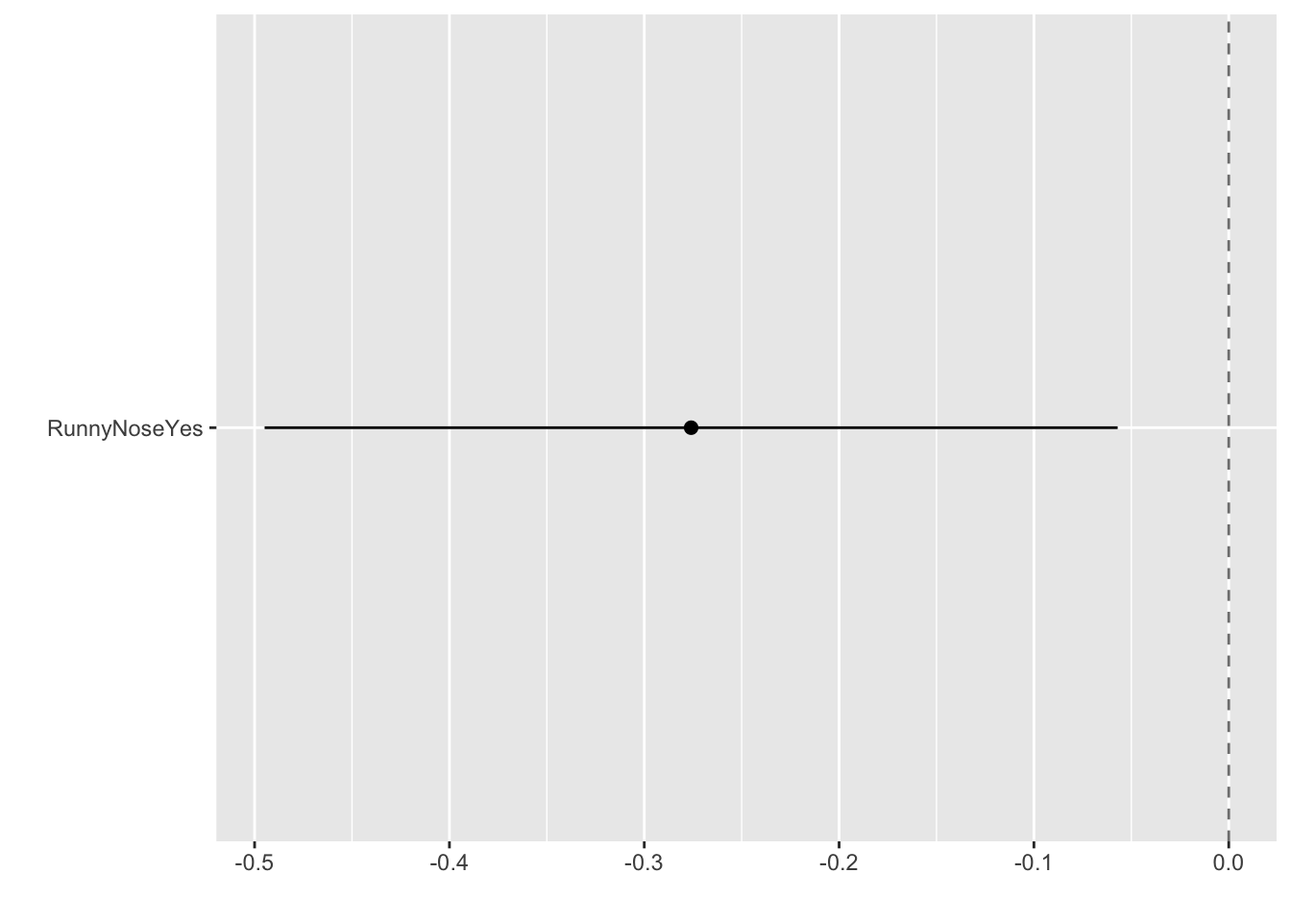
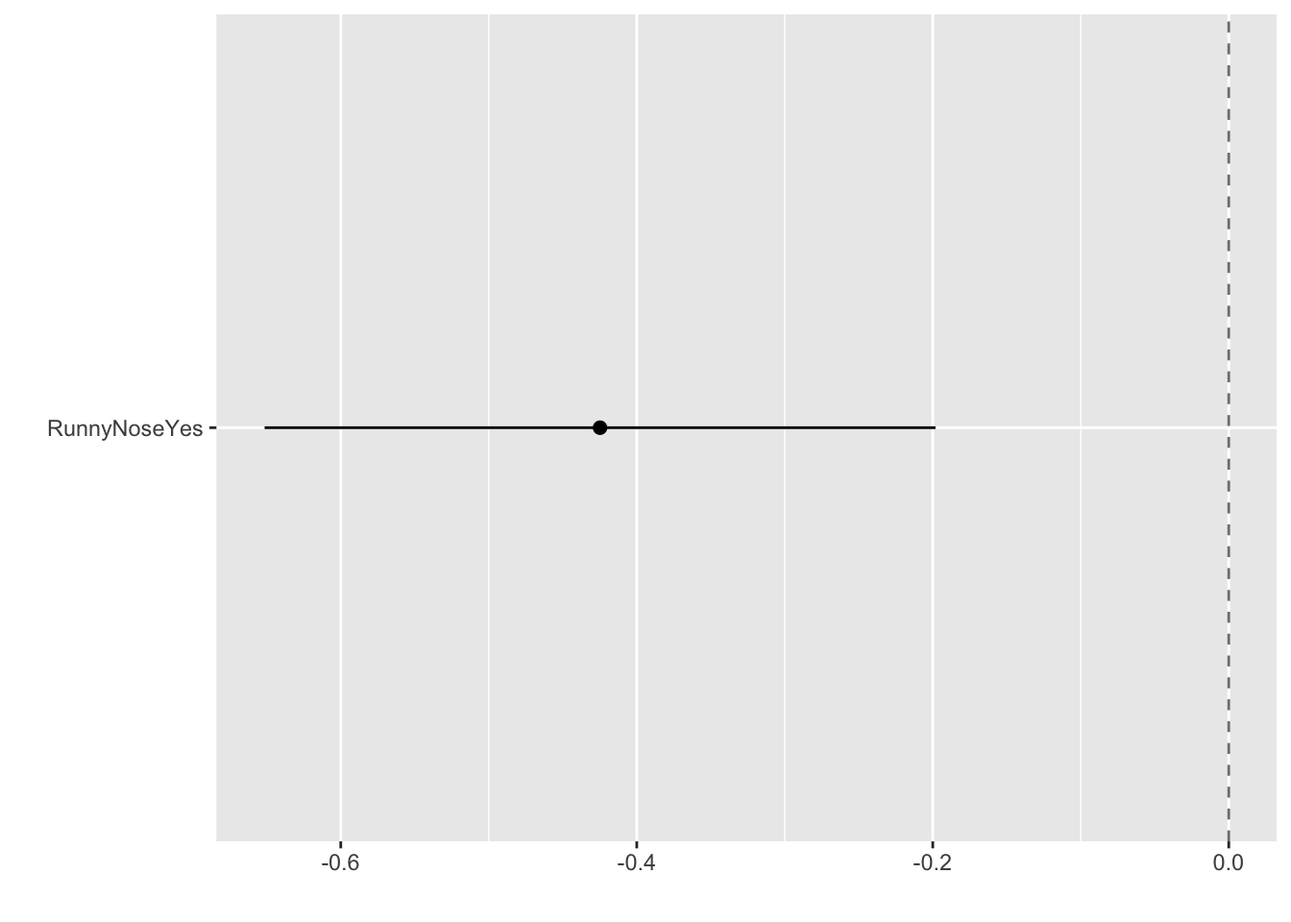
updated yml

diff --git a/docs/fluanalysis/code/fitting.html b/docs/fluanalysis/code/fitting.html
@@ -251,7 +251,7 @@ code span.wa { color: #60a0b0; font-weight: bold; font-style: italic; } /* Warni
 ✖ dplyr::filter()  masks stats::filter()
 ✖ dplyr::lag()     masks stats::lag()
 ✖ recipes::step()  masks stats::step()
-• Use suppressPackageStartupMessages() to eliminate package startup messages</code></pre>
+• Use tidymodels_prefer() to resolve common conflicts.</code></pre>
 </div>
 <div class="sourceCode cell-code" id="cb5"><pre class="sourceCode r code-with-copy"><code class="sourceCode r"><span id="cb5-1"><a href="#cb5-1" aria-hidden="true" tabindex="-1"></a><span class="fu">library</span>(tidyverse)</span></code><button title="Copy to Clipboard" class="code-copy-button"><i class="bi"></i></button></pre></div>
 <div class="cell-output cell-output-stderr">
@@ -345,24 +345,24 @@ code span.wa { color: #60a0b0; font-weight: bold; font-style: italic; } /* Warni
 <span id="cb17-3"><a href="#cb17-3" aria-hidden="true" tabindex="-1"></a><span class="fu">tidy</span>(bodytemp_fit)</span></code><button title="Copy to Clipboard" class="code-copy-button"><i class="bi"></i></button></pre></div>
 <div class="cell-output cell-output-stdout">
 <pre><code># A tibble: 38 × 5
-   term                 estimate std.error statistic   p.value
-   &lt;chr&gt;                   &lt;dbl&gt;     &lt;dbl&gt;     &lt;dbl&gt;     &lt;dbl&gt;
- 1 (Intercept)           98.0        0.337   291.    0        
- 2 SwollenLymphNodesYes  -0.127      0.107    -1.18  0.237    
- 3 ChestCongestionYes     0.0354     0.112     0.317 0.751    
- 4 ChillsSweatsYes        0.183      0.145     1.26  0.208    
- 5 NasalCongestionYes    -0.207      0.132    -1.57  0.117    
- 6 CoughYNYes             0.289      0.300     0.964 0.336    
- 7 SneezeYes             -0.353      0.114    -3.09  0.00208  
- 8 FatigueYes             0.341      0.183     1.86  0.0634   
- 9 SubjectiveFeverYes     0.482      0.118     4.09  0.0000502
-10 HeadacheYes           -0.0679     0.141    -0.480 0.631    
+   term                 estimate std.error statistic p.value
+   &lt;chr&gt;                   &lt;dbl&gt;     &lt;dbl&gt;     &lt;dbl&gt;   &lt;dbl&gt;
+ 1 (Intercept)           98.0        0.369   266.    0      
+ 2 SwollenLymphNodesYes  -0.202      0.108    -1.86  0.0635 
+ 3 ChestCongestionYes     0.0792     0.115     0.690 0.491  
+ 4 ChillsSweatsYes        0.284      0.155     1.84  0.0662 
+ 5 NasalCongestionYes    -0.255      0.134    -1.91  0.0566 
+ 6 CoughYNYes             0.175      0.289     0.607 0.544  
+ 7 SneezeYes             -0.325      0.119    -2.74  0.00629
+ 8 FatigueYes             0.312      0.183     1.70  0.0895 
+ 9 SubjectiveFeverYes     0.333      0.125     2.67  0.00785
+10 HeadacheYes            0.0482     0.147     0.327 0.744  
 # … with 28 more rows</code></pre>
 </div>
 </div>
 </section>
-<section id="create-a-dotwhisker-plot-to-look-at-the-regression" class="level3">
-<h3 class="anchored" data-anchor-id="create-a-dotwhisker-plot-to-look-at-the-regression">Create a dotwhisker plot to look at the regression</h3>
+<section id="create-a-dotwhisker-plot-to-look-at-regression-coefficients" class="level3">
+<h3 class="anchored" data-anchor-id="create-a-dotwhisker-plot-to-look-at-regression-coefficients">Create a dotwhisker plot to look at regression coefficients</h3>
 <div class="cell">
 <div class="sourceCode cell-code" id="cb19"><pre class="sourceCode r code-with-copy"><code class="sourceCode r"><span id="cb19-1"><a href="#cb19-1" aria-hidden="true" tabindex="-1"></a><span class="fu">tidy</span>(bodytemp_fit) <span class="sc">%&gt;%</span> </span>
 <span id="cb19-2"><a href="#cb19-2" aria-hidden="true" tabindex="-1"></a>  <span class="fu">dwplot</span>(<span class="at">dot_args =</span> <span class="fu">list</span>(<span class="at">size =</span> <span class="dv">2</span>, <span class="at">color =</span> <span class="st">"black"</span>),</span>
@@ -374,8 +374,8 @@ code span.wa { color: #60a0b0; font-weight: bold; font-style: italic; } /* Warni
 </div>
 </div>
 </section>
-<section id="use-model-on-testing-data-to-predict-body-temp-outcome" class="level3">
-<h3 class="anchored" data-anchor-id="use-model-on-testing-data-to-predict-body-temp-outcome">Use model on testing data to predict body temp outcome</h3>
+<section id="use-model-on-test-data-to-predict-body-temp-outcome" class="level3">
+<h3 class="anchored" data-anchor-id="use-model-on-test-data-to-predict-body-temp-outcome">Use model on test data to predict body temp outcome</h3>
 <div class="cell">
 <div class="sourceCode cell-code" id="cb20"><pre class="sourceCode r code-with-copy"><code class="sourceCode r"><span id="cb20-1"><a href="#cb20-1" aria-hidden="true" tabindex="-1"></a>bodytemp_aug_test <span class="ot">&lt;-</span> <span class="fu">augment</span>(bodytemp_fit, test_data)</span></code><button title="Copy to Clipboard" class="code-copy-button"><i class="bi"></i></button></pre></div>
 <div class="cell-output cell-output-stderr">
@@ -387,16 +387,16 @@ code span.wa { color: #60a0b0; font-weight: bold; font-style: italic; } /* Warni
 <pre><code># A tibble: 183 × 2
    BodyTemp .pred
       &lt;dbl&gt; &lt;dbl&gt;
- 1     98.5  98.9
- 2     98.2  99.1
- 3     99    98.8
- 4    102.   99.1
- 5     98.1  98.4
- 6     98.2  99.1
- 7    100.   99.1
- 8    100.   98.9
- 9     98.1  99.8
-10     98.5  99.2
+ 1    100.   99.4
+ 2     98.5  98.6
+ 3     99.2  98.8
+ 4     99.3  99.3
+ 5    101.   99.0
+ 6     98.7  98.2
+ 7     98.8  99.7
+ 8     98.7  98.8
+ 9     98    98.5
+10    101.   99.2
 # … with 173 more rows</code></pre>
 </div>
 </div>
@@ -410,7 +410,7 @@ code span.wa { color: #60a0b0; font-weight: bold; font-style: italic; } /* Warni
 <pre><code># A tibble: 1 × 3
   .metric .estimator .estimate
   &lt;chr&gt;   &lt;chr&gt;          &lt;dbl&gt;
-1 rmse    standard        1.21</code></pre>
+1 rmse    standard        1.12</code></pre>
 </div>
 </div>
 <p>I think this means that this model is estimating body temp incorrectly by this amount (in either direction)</p>
@@ -426,8 +426,8 @@ code span.wa { color: #60a0b0; font-weight: bold; font-style: italic; } /* Warni
 </div>
 <p>Here, we have set the outcome of interest to be body temperature, and predictor of interest to be runny nose.</p>
 </section>
-<section id="combine-model-and-recipe" class="level3">
-<h3 class="anchored" data-anchor-id="combine-model-and-recipe">Combine model and recipe</h3>
+<section id="combine-model-and-recipe-to-create-workflow" class="level3">
+<h3 class="anchored" data-anchor-id="combine-model-and-recipe-to-create-workflow">Combine model and recipe to create workflow</h3>
 <div class="cell">
 <div class="sourceCode cell-code" id="cb27"><pre class="sourceCode r code-with-copy"><code class="sourceCode r"><span id="cb27-1"><a href="#cb27-1" aria-hidden="true" tabindex="-1"></a>bodytemp_lm_workflow2 <span class="ot">&lt;-</span> <span class="fu">workflow</span>() <span class="sc">%&gt;%</span> </span>
 <span id="cb27-2"><a href="#cb27-2" aria-hidden="true" tabindex="-1"></a>  <span class="fu">add_model</span>(lm_mod) <span class="sc">%&gt;%</span> </span>
@@ -442,10 +442,10 @@ code span.wa { color: #60a0b0; font-weight: bold; font-style: italic; } /* Warni
 <span id="cb28-3"><a href="#cb28-3" aria-hidden="true" tabindex="-1"></a><span class="fu">tidy</span>(bodytemp_fit2)</span></code><button title="Copy to Clipboard" class="code-copy-button"><i class="bi"></i></button></pre></div>
 <div class="cell-output cell-output-stdout">
 <pre><code># A tibble: 2 × 5
-  term         estimate std.error statistic p.value
-  &lt;chr&gt;           &lt;dbl&gt;     &lt;dbl&gt;     &lt;dbl&gt;   &lt;dbl&gt;
-1 (Intercept)    99.1      0.0946   1048.    0     
-2 RunnyNoseYes   -0.276    0.112      -2.47  0.0138</code></pre>
+  term         estimate std.error statistic  p.value
+  &lt;chr&gt;           &lt;dbl&gt;     &lt;dbl&gt;     &lt;dbl&gt;    &lt;dbl&gt;
+1 (Intercept)    99.3      0.0988   1005.   0       
+2 RunnyNoseYes   -0.425    0.116      -3.67 0.000263</code></pre>
 </div>
 </div>
 <p>Now we have trained the model using the training data set.</p>
@@ -473,16 +473,16 @@ code span.wa { color: #60a0b0; font-weight: bold; font-style: italic; } /* Warni
 <pre><code># A tibble: 183 × 2
    BodyTemp .pred
       &lt;dbl&gt; &lt;dbl&gt;
- 1     98.5  98.9
- 2     98.2  99.1
- 3     99    98.9
- 4    102.   98.9
- 5     98.1  98.9
- 6     98.2  98.9
- 7    100.   98.9
- 8    100.   98.9
- 9     98.1  99.1
-10     98.5  98.9
+ 1    100.   99.3
+ 2     98.5  98.8
+ 3     99.2  98.8
+ 4     99.3  99.3
+ 5    101.   99.3
+ 6     98.7  98.8
+ 7     98.8  99.3
+ 8     98.7  98.8
+ 9     98    98.8
+10    101.   98.8
 # … with 173 more rows</code></pre>
 </div>
 </div>
@@ -496,10 +496,204 @@ code span.wa { color: #60a0b0; font-weight: bold; font-style: italic; } /* Warni
 <pre><code># A tibble: 1 × 3
   .metric .estimator .estimate
   &lt;chr&gt;   &lt;chr&gt;          &lt;dbl&gt;
-1 rmse    standard        1.23</code></pre>
+1 rmse    standard        1.16</code></pre>
 </div>
 </div>
-<p>This is a similar output to what we saw in the first model, where estimation of body temp is slightly off.</p>
+<p>This is a similar output to what we saw in the first model, where estimation of body temp is slightly off by about 1 degree.</p>
+</section>
+</section>
+<section id="create-model-to-predict-nausea-based-on-all-other-variables-logistic-regression" class="level2">
+<h2 class="anchored" data-anchor-id="create-model-to-predict-nausea-based-on-all-other-variables-logistic-regression">Create model to predict nausea based on all other variables (logistic regression)</h2>
+<section id="define-model-1" class="level3">
+<h3 class="anchored" data-anchor-id="define-model-1">Define model</h3>
+<p>We will continue to use the model testing and training data sets that we created at the start. However, since we now want to create a logistic regression (outcome of interest is categorical), we will need to define a new model</p>
+<div class="cell">
+<div class="sourceCode cell-code" id="cb35"><pre class="sourceCode r code-with-copy"><code class="sourceCode r"><span id="cb35-1"><a href="#cb35-1" aria-hidden="true" tabindex="-1"></a>log_mod <span class="ot">&lt;-</span> <span class="fu">logistic_reg</span>() <span class="sc">%&gt;%</span> </span>
+<span id="cb35-2"><a href="#cb35-2" aria-hidden="true" tabindex="-1"></a>  <span class="fu">set_engine</span>(<span class="st">"glm"</span>)</span></code><button title="Copy to Clipboard" class="code-copy-button"><i class="bi"></i></button></pre></div>
+</div>
+</section>
+<section id="create-recipe-2" class="level3">
+<h3 class="anchored" data-anchor-id="create-recipe-2">Create recipe</h3>
+<div class="cell">
+<div class="sourceCode cell-code" id="cb36"><pre class="sourceCode r code-with-copy"><code class="sourceCode r"><span id="cb36-1"><a href="#cb36-1" aria-hidden="true" tabindex="-1"></a>recipe_nausea <span class="ot">&lt;-</span> <span class="fu">recipe</span>(Nausea <span class="sc">~</span>., <span class="at">data =</span> train_data)</span></code><button title="Copy to Clipboard" class="code-copy-button"><i class="bi"></i></button></pre></div>
+</div>
+<p>This sets the stage to predict nausea outcomes based on all other variables in the data set (predictors)</p>
+</section>
+<section id="combine-model-and-recipe-to-create-workflow-1" class="level3">
+<h3 class="anchored" data-anchor-id="combine-model-and-recipe-to-create-workflow-1">Combine model and recipe to create workflow</h3>
+<div class="cell">
+<div class="sourceCode cell-code" id="cb37"><pre class="sourceCode r code-with-copy"><code class="sourceCode r"><span id="cb37-1"><a href="#cb37-1" aria-hidden="true" tabindex="-1"></a>nausea_log_wf <span class="ot">&lt;-</span> <span class="fu">workflow</span>() <span class="sc">%&gt;%</span> </span>
+<span id="cb37-2"><a href="#cb37-2" aria-hidden="true" tabindex="-1"></a>  <span class="fu">add_model</span>(log_mod) <span class="sc">%&gt;%</span> </span>
+<span id="cb37-3"><a href="#cb37-3" aria-hidden="true" tabindex="-1"></a>  <span class="fu">add_recipe</span>(recipe_nausea)</span></code><button title="Copy to Clipboard" class="code-copy-button"><i class="bi"></i></button></pre></div>
+</div>
+</section>
+<section id="model-using-workflow-and-training-data" class="level3">
+<h3 class="anchored" data-anchor-id="model-using-workflow-and-training-data">Model using workflow and training data</h3>
+<div class="cell">
+<div class="sourceCode cell-code" id="cb38"><pre class="sourceCode r code-with-copy"><code class="sourceCode r"><span id="cb38-1"><a href="#cb38-1" aria-hidden="true" tabindex="-1"></a>nausea_fit <span class="ot">&lt;-</span> nausea_log_wf <span class="sc">%&gt;%</span> </span>
+<span id="cb38-2"><a href="#cb38-2" aria-hidden="true" tabindex="-1"></a>  <span class="fu">fit</span>(<span class="at">data =</span> train_data)</span>
+<span id="cb38-3"><a href="#cb38-3" aria-hidden="true" tabindex="-1"></a></span>
+<span id="cb38-4"><a href="#cb38-4" aria-hidden="true" tabindex="-1"></a>nausea_fit <span class="sc">%&gt;%</span> <span class="fu">extract_fit_parsnip</span>() <span class="sc">%&gt;%</span> </span>
+<span id="cb38-5"><a href="#cb38-5" aria-hidden="true" tabindex="-1"></a>  <span class="fu">tidy</span>()</span></code><button title="Copy to Clipboard" class="code-copy-button"><i class="bi"></i></button></pre></div>
+<div class="cell-output cell-output-stdout">
+<pre><code># A tibble: 38 × 5
+   term                 estimate std.error statistic p.value
+   &lt;chr&gt;                   &lt;dbl&gt;     &lt;dbl&gt;     &lt;dbl&gt;   &lt;dbl&gt;
+ 1 (Intercept)            1.48       9.16     0.161  0.872  
+ 2 SwollenLymphNodesYes  -0.692      0.237   -2.92   0.00352
+ 3 ChestCongestionYes     0.342      0.256    1.34   0.181  
+ 4 ChillsSweatsYes        0.0154     0.348    0.0443 0.965  
+ 5 NasalCongestionYes     0.513      0.305    1.68   0.0926 
+ 6 CoughYNYes            -0.0462     0.638   -0.0724 0.942  
+ 7 SneezeYes              0.243      0.254    0.959  0.338  
+ 8 FatigueYes             0.180      0.423    0.426  0.670  
+ 9 SubjectiveFeverYes     0.500      0.276    1.81   0.0705 
+10 HeadacheYes            0.419      0.334    1.25   0.210  
+# … with 28 more rows</code></pre>
+</div>
+</div>
+<p>Now we have trained the model, so let’s use the test data to see how well this model predicts nausea.</p>
+</section>
+<section id="use-model-on-test-data" class="level3">
+<h3 class="anchored" data-anchor-id="use-model-on-test-data">Use model on test data</h3>
+<div class="cell">
+<div class="sourceCode cell-code" id="cb40"><pre class="sourceCode r code-with-copy"><code class="sourceCode r"><span id="cb40-1"><a href="#cb40-1" aria-hidden="true" tabindex="-1"></a><span class="fu">predict</span>(nausea_fit, test_data)</span></code><button title="Copy to Clipboard" class="code-copy-button"><i class="bi"></i></button></pre></div>
+<div class="cell-output cell-output-stderr">
+<pre><code>Warning in predict.lm(object, newdata, se.fit, scale = 1, type = if (type == :
+prediction from a rank-deficient fit may be misleading</code></pre>
+</div>
+<div class="cell-output cell-output-stdout">
+<pre><code># A tibble: 183 × 1
+   .pred_class
+   &lt;fct&gt;      
+ 1 No         
+ 2 No         
+ 3 No         
+ 4 No         
+ 5 No         
+ 6 No         
+ 7 No         
+ 8 No         
+ 9 No         
+10 Yes        
+# … with 173 more rows</code></pre>
+</div>
+</div>
+</section>
+<section id="use-roc-curve-to-assess-model-fit" class="level3">
+<h3 class="anchored" data-anchor-id="use-roc-curve-to-assess-model-fit">Use ROC curve to assess model fit</h3>
+<div class="cell">
+<div class="sourceCode cell-code" id="cb43"><pre class="sourceCode r code-with-copy"><code class="sourceCode r"><span id="cb43-1"><a href="#cb43-1" aria-hidden="true" tabindex="-1"></a>nausea_aug_test <span class="ot">&lt;-</span> <span class="fu">augment</span>(nausea_fit, test_data)</span></code><button title="Copy to Clipboard" class="code-copy-button"><i class="bi"></i></button></pre></div>
+<div class="cell-output cell-output-stderr">
+<pre><code>Warning in predict.lm(object, newdata, se.fit, scale = 1, type = if (type == :
+prediction from a rank-deficient fit may be misleading
+
+Warning in predict.lm(object, newdata, se.fit, scale = 1, type = if (type == :
+prediction from a rank-deficient fit may be misleading</code></pre>
+</div>
+<div class="sourceCode cell-code" id="cb45"><pre class="sourceCode r code-with-copy"><code class="sourceCode r"><span id="cb45-1"><a href="#cb45-1" aria-hidden="true" tabindex="-1"></a>nausea_aug_test <span class="sc">%&gt;%</span> </span>
+<span id="cb45-2"><a href="#cb45-2" aria-hidden="true" tabindex="-1"></a>  <span class="fu">roc_curve</span>(<span class="at">truth =</span> Nausea, .pred_Yes, <span class="at">event_level =</span> <span class="st">"second"</span>) <span class="sc">%&gt;%</span> </span>
+<span id="cb45-3"><a href="#cb45-3" aria-hidden="true" tabindex="-1"></a>  <span class="fu">autoplot</span>()</span></code><button title="Copy to Clipboard" class="code-copy-button"><i class="bi"></i></button></pre></div>
+<div class="cell-output cell-output-stderr">
+<pre><code>Warning: Returning more (or less) than 1 row per `summarise()` group was deprecated in
+dplyr 1.1.0.
+ℹ Please use `reframe()` instead.
+ℹ When switching from `summarise()` to `reframe()`, remember that `reframe()`
+  always returns an ungrouped data frame and adjust accordingly.
+ℹ The deprecated feature was likely used in the yardstick package.
+  Please report the issue at &lt;]8;;https://github.com/tidymodels/yardstick/issueshttps://github.com/tidymodels/yardstick/issues]8;;&gt;.</code></pre>
+</div>
+<div class="cell-output-display">
+<p><img src="fitting_files/figure-html/unnamed-chunk-22-1.png" class="img-fluid" width="672"></p>
+</div>
+<div class="sourceCode cell-code" id="cb47"><pre class="sourceCode r code-with-copy"><code class="sourceCode r"><span id="cb47-1"><a href="#cb47-1" aria-hidden="true" tabindex="-1"></a>nausea_aug_test <span class="sc">%&gt;%</span> <span class="fu">roc_auc</span>(<span class="at">truth =</span> Nausea, .pred_Yes, </span>
+<span id="cb47-2"><a href="#cb47-2" aria-hidden="true" tabindex="-1"></a>                            <span class="at">event_level =</span> <span class="st">"second"</span>)</span></code><button title="Copy to Clipboard" class="code-copy-button"><i class="bi"></i></button></pre></div>
+<div class="cell-output cell-output-stdout">
+<pre><code># A tibble: 1 × 3
+  .metric .estimator .estimate
+  &lt;chr&gt;   &lt;chr&gt;          &lt;dbl&gt;
+1 roc_auc binary         0.641</code></pre>
+</div>
+</div>
+<p>I think what this shows is that the model is a pretty decent predictor of nausea, however, it is more sensitive than it is specific, meaning that it is good at indicating true positives but not as good at indicating true negatives.</p>
+</section>
+</section>
+<section id="create-model-to-predict-nausea-based-on-runny-nose-logistic-regression" class="level2">
+<h2 class="anchored" data-anchor-id="create-model-to-predict-nausea-based-on-runny-nose-logistic-regression">Create model to predict nausea based on runny nose (logistic regression)</h2>
+<section id="create-recipe-3" class="level3">
+<h3 class="anchored" data-anchor-id="create-recipe-3">Create recipe</h3>
+<p>Since we have already split the data and defined the appropriate model, we will just need to create a new recipe that predicts nausea based on runny nose.</p>
+<div class="cell">
+<div class="sourceCode cell-code" id="cb49"><pre class="sourceCode r code-with-copy"><code class="sourceCode r"><span id="cb49-1"><a href="#cb49-1" aria-hidden="true" tabindex="-1"></a>recipe_nausea2 <span class="ot">&lt;-</span> <span class="fu">recipe</span>(Nausea <span class="sc">~</span> RunnyNose, <span class="at">data =</span> train_data)</span></code><button title="Copy to Clipboard" class="code-copy-button"><i class="bi"></i></button></pre></div>
+</div>
+</section>
+<section id="combine-model-and-recipe-to-create-workflow-2" class="level3">
+<h3 class="anchored" data-anchor-id="combine-model-and-recipe-to-create-workflow-2">Combine model and recipe to create workflow</h3>
+<div class="cell">
+<div class="sourceCode cell-code" id="cb50"><pre class="sourceCode r code-with-copy"><code class="sourceCode r"><span id="cb50-1"><a href="#cb50-1" aria-hidden="true" tabindex="-1"></a>nausea_log_wf2 <span class="ot">&lt;-</span> <span class="fu">workflow</span>() <span class="sc">%&gt;%</span> </span>
+<span id="cb50-2"><a href="#cb50-2" aria-hidden="true" tabindex="-1"></a>  <span class="fu">add_model</span>(log_mod) <span class="sc">%&gt;%</span> </span>
+<span id="cb50-3"><a href="#cb50-3" aria-hidden="true" tabindex="-1"></a>  <span class="fu">add_recipe</span>(recipe_nausea2)</span></code><button title="Copy to Clipboard" class="code-copy-button"><i class="bi"></i></button></pre></div>
+</div>
+</section>
+<section id="model-using-workflow-and-training-data-1" class="level3">
+<h3 class="anchored" data-anchor-id="model-using-workflow-and-training-data-1">Model using workflow and training data</h3>
+<div class="cell">
+<div class="sourceCode cell-code" id="cb51"><pre class="sourceCode r code-with-copy"><code class="sourceCode r"><span id="cb51-1"><a href="#cb51-1" aria-hidden="true" tabindex="-1"></a>nausea_fit2 <span class="ot">&lt;-</span> nausea_log_wf2 <span class="sc">%&gt;%</span> </span>
+<span id="cb51-2"><a href="#cb51-2" aria-hidden="true" tabindex="-1"></a>  <span class="fu">fit</span>(<span class="at">data =</span> train_data)</span>
+<span id="cb51-3"><a href="#cb51-3" aria-hidden="true" tabindex="-1"></a></span>
+<span id="cb51-4"><a href="#cb51-4" aria-hidden="true" tabindex="-1"></a>nausea_fit2 <span class="sc">%&gt;%</span> <span class="fu">extract_fit_parsnip</span>() <span class="sc">%&gt;%</span> </span>
+<span id="cb51-5"><a href="#cb51-5" aria-hidden="true" tabindex="-1"></a>  <span class="fu">tidy</span>()</span></code><button title="Copy to Clipboard" class="code-copy-button"><i class="bi"></i></button></pre></div>
+<div class="cell-output cell-output-stdout">
+<pre><code># A tibble: 2 × 5
+  term         estimate std.error statistic  p.value
+  &lt;chr&gt;           &lt;dbl&gt;     &lt;dbl&gt;     &lt;dbl&gt;    &lt;dbl&gt;
+1 (Intercept)   -0.643      0.173    -3.72  0.000202
+2 RunnyNoseYes   0.0606     0.202     0.300 0.764   </code></pre>
+</div>
+</div>
+</section>
+<section id="use-model-on-test-data-1" class="level3">
+<h3 class="anchored" data-anchor-id="use-model-on-test-data-1">Use model on test data</h3>
+<div class="cell">
+<div class="sourceCode cell-code" id="cb53"><pre class="sourceCode r code-with-copy"><code class="sourceCode r"><span id="cb53-1"><a href="#cb53-1" aria-hidden="true" tabindex="-1"></a><span class="fu">predict</span>(nausea_fit2, test_data)</span></code><button title="Copy to Clipboard" class="code-copy-button"><i class="bi"></i></button></pre></div>
+<div class="cell-output cell-output-stdout">
+<pre><code># A tibble: 183 × 1
+   .pred_class
+   &lt;fct&gt;      
+ 1 No         
+ 2 No         
+ 3 No         
+ 4 No         
+ 5 No         
+ 6 No         
+ 7 No         
+ 8 No         
+ 9 No         
+10 No         
+# … with 173 more rows</code></pre>
+</div>
+</div>
+</section>
+<section id="use-roc-curve-to-assess-model-fit-1" class="level3">
+<h3 class="anchored" data-anchor-id="use-roc-curve-to-assess-model-fit-1">Use ROC curve to assess model fit</h3>
+<div class="cell">
+<div class="sourceCode cell-code" id="cb55"><pre class="sourceCode r code-with-copy"><code class="sourceCode r"><span id="cb55-1"><a href="#cb55-1" aria-hidden="true" tabindex="-1"></a>nausea_aug_test2 <span class="ot">&lt;-</span> <span class="fu">augment</span>(nausea_fit2, test_data)</span>
+<span id="cb55-2"><a href="#cb55-2" aria-hidden="true" tabindex="-1"></a></span>
+<span id="cb55-3"><a href="#cb55-3" aria-hidden="true" tabindex="-1"></a>nausea_aug_test2 <span class="sc">%&gt;%</span> </span>
+<span id="cb55-4"><a href="#cb55-4" aria-hidden="true" tabindex="-1"></a>  <span class="fu">roc_curve</span>(<span class="at">truth =</span> Nausea, .pred_Yes, <span class="at">event_level =</span> <span class="st">"second"</span>) <span class="sc">%&gt;%</span> </span>
+<span id="cb55-5"><a href="#cb55-5" aria-hidden="true" tabindex="-1"></a>  <span class="fu">autoplot</span>()</span></code><button title="Copy to Clipboard" class="code-copy-button"><i class="bi"></i></button></pre></div>
+<div class="cell-output-display">
+<p><img src="fitting_files/figure-html/unnamed-chunk-27-1.png" class="img-fluid" width="672"></p>
+</div>
+<div class="sourceCode cell-code" id="cb56"><pre class="sourceCode r code-with-copy"><code class="sourceCode r"><span id="cb56-1"><a href="#cb56-1" aria-hidden="true" tabindex="-1"></a>nausea_aug_test2 <span class="sc">%&gt;%</span> <span class="fu">roc_auc</span>(<span class="at">truth =</span> Nausea, .pred_Yes, </span>
+<span id="cb56-2"><a href="#cb56-2" aria-hidden="true" tabindex="-1"></a>                            <span class="at">event_level =</span> <span class="st">"second"</span>)</span></code><button title="Copy to Clipboard" class="code-copy-button"><i class="bi"></i></button></pre></div>
+<div class="cell-output cell-output-stdout">
+<pre><code># A tibble: 1 × 3
+  .metric .estimator .estimate
+  &lt;chr&gt;   &lt;chr&gt;          &lt;dbl&gt;
+1 roc_auc binary           0.5</code></pre>
+</div>
+</div>
 
 
 </section>

diff --git a/docs/aboutme.html b/docs/aboutme.html
@@ -35,10 +35,10 @@ ul.task-list li input[type="checkbox"] {
 <script src="site_libs/quarto-html/tippy.umd.min.js"></script>
 <script src="site_libs/quarto-html/anchor.min.js"></script>
 <link href="site_libs/quarto-html/tippy.css" rel="stylesheet">
-<link href="site_libs/quarto-html/quarto-syntax-highlighting.css" rel="stylesheet" id="quarto-text-highlighting-styles">
+<link href="site_libs/quarto-html/quarto-syntax-highlighting-dark.css" rel="stylesheet" id="quarto-text-highlighting-styles">
 <script src="site_libs/bootstrap/bootstrap.min.js"></script>
 <link href="site_libs/bootstrap/bootstrap-icons.css" rel="stylesheet">
-<link href="site_libs/bootstrap/bootstrap.min.css" rel="stylesheet" id="quarto-bootstrap" data-mode="light">
+<link href="site_libs/bootstrap/bootstrap.min.css" rel="stylesheet" id="quarto-bootstrap" data-mode="dark">
 <script id="quarto-search-options" type="application/json">{
   "location": "navbar",
   "copy-button": false,
@@ -103,6 +103,25 @@ ul.task-list li input[type="checkbox"] {
         <li>
     <a class="dropdown-item" href="././data_analysis_exercise.html">
  <span class="dropdown-text">Data Analysis Exercise</span></a>
+  </li>  
+    </ul>
+  </li>
+  <li class="nav-item dropdown ">
+    <a class="nav-link dropdown-toggle" href="#" id="nav-menu-flu-analysis" role="button" data-bs-toggle="dropdown" aria-expanded="false">
+ <span class="menu-text">Flu Analysis</span>
+    </a>
+    <ul class="dropdown-menu" aria-labelledby="nav-menu-flu-analysis">    
+        <li>
+    <a class="dropdown-item" href="./fluanalysis/code/wrangling.html">
+ <span class="dropdown-text">Data Wrangling</span></a>
+  </li>  
+        <li>
+    <a class="dropdown-item" href="./fluanalysis/code/exploration.html">
+ <span class="dropdown-text">Data Exploration</span></a>
+  </li>  
+        <li>
+    <a class="dropdown-item" href="./fluanalysis/code/fitting.html">
+ <span class="dropdown-text">Model Fitting</span></a>
   </li>  
     </ul>
   </li>
